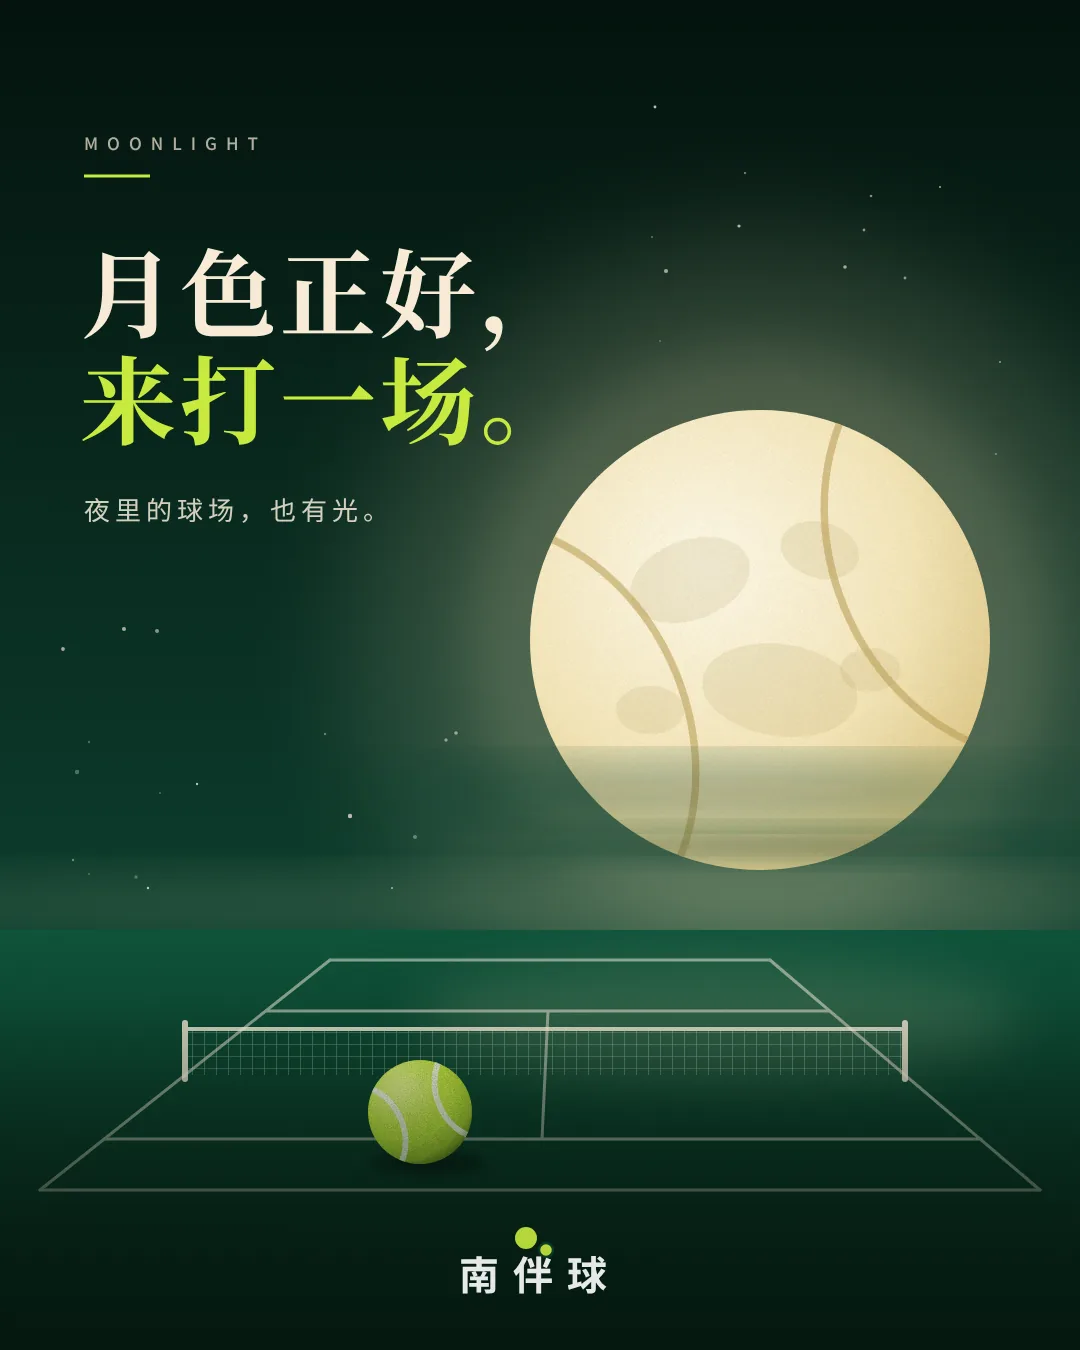
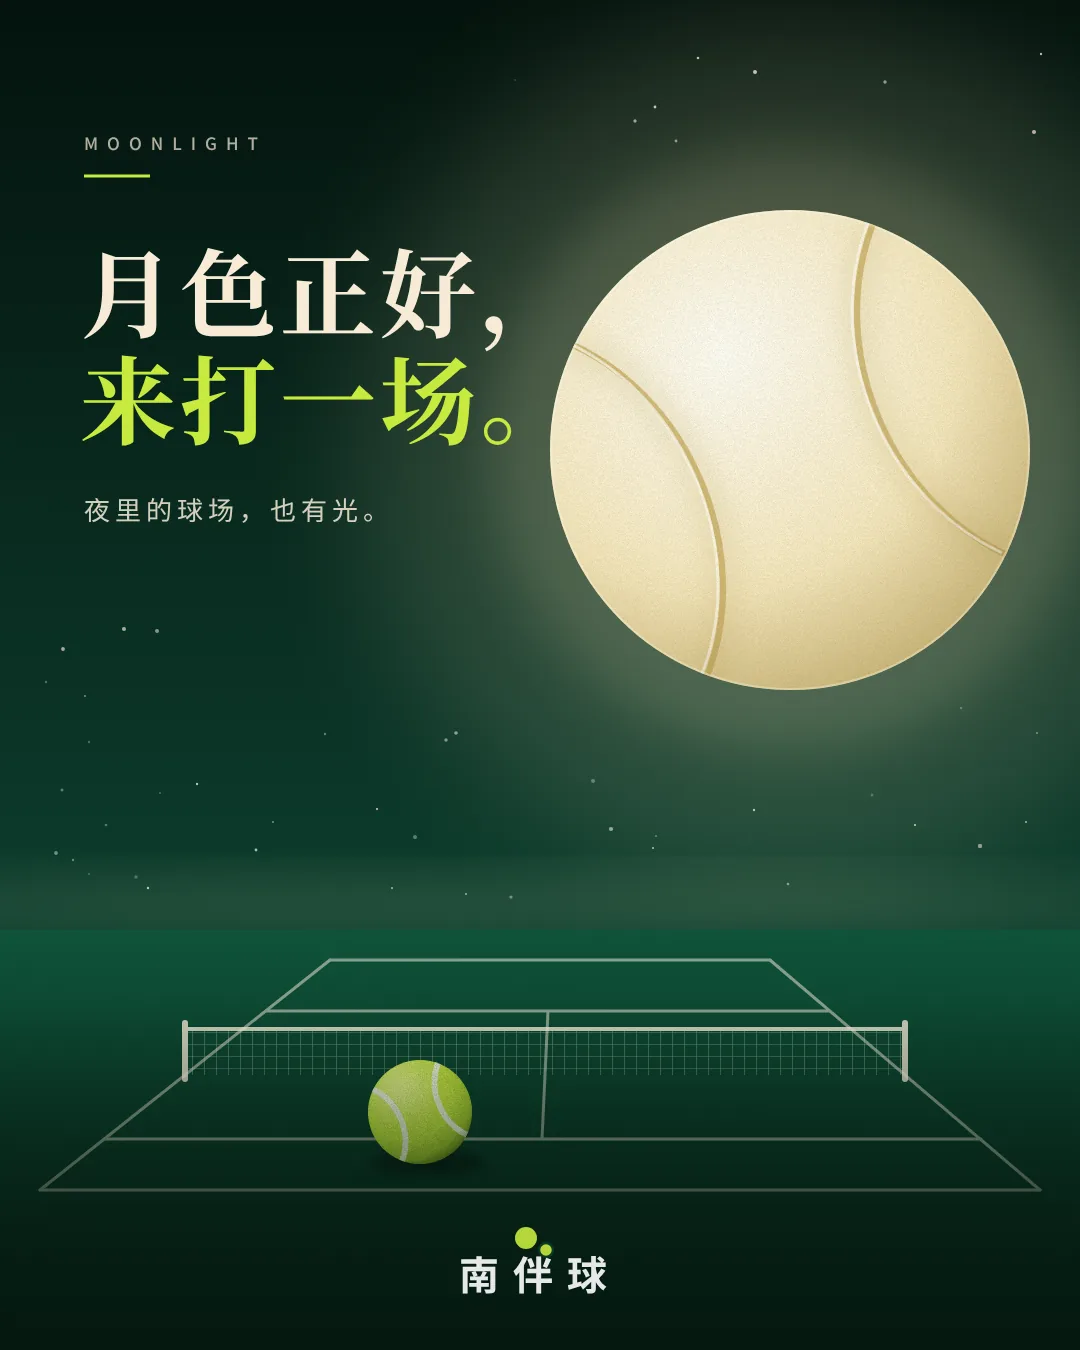
宣传物料：25 月色正好改版（去掉月面脏点，月亮升高，细节打磨）
Claude-Session: https://claude.ai/code/session_01Vg2RCd8S2GXXbETX4tfwFd

Changed region(s): [[0.3972, 0.0311, 1.0, 0.7778]]

diff --git a/marketing/posters/p25_moonlight.py b/marketing/posters/p25_moonlight.py
@@ -3,22 +3,20 @@ from lib import *
 META = dict(
     id=25, slug='moonlight', title='月色正好', lines=['月色正好，', '来打一场。'],
     style=['写实光影', '意境'], tone='深色', demo=False,
-    concept='满月上浅浅的两道弧线像球缝，月亮与网球互为倒影；月光洒在安静的球场上，一颗球等着人来',
+    concept='干净的满月，浅浅两道弧线像球缝，月亮与网球互为倒影；月光洒在安静的球场上，一颗球等着人来',
     use='夜场 / 晚间约球的氛围图；品牌情绪：安静、期待',
 )
 
 
 def svg():
     random.seed(25)
-    mx, my, mr = 760, 640, 230
+    mx, my, mr = 790, 450, 240
     stars = ''
-    for _ in range(70):
+    for _ in range(140):
         x, y = random.uniform(30, 1050), random.uniform(40, 900)
-        if (x - mx) ** 2 + (y - my) ** 2 < (mr + 60) ** 2 or (x < 640 and 90 < y < 560):
+        if (x - mx) ** 2 + (y - my) ** 2 < (mr + 60) ** 2 or (x < 600 and 90 < y < 560):
             continue
         stars += f'<circle cx="{x:.0f}" cy="{y:.0f}" r="{random.uniform(.8, 2.2):.1f}" fill="#F7EBD6" opacity="{random.uniform(.25, .8):.2f}"/>'
-    maria = ''.join(f'<ellipse cx="{mx+dx}" cy="{my+dy}" rx="{rx}" ry="{ry}" transform="rotate({r} {mx+dx} {my+dy})" fill="#B49A55" opacity=".16"/>'
-                    for dx, dy, rx, ry, r in [(-70, -60, 62, 40, -20), (60, -90, 40, 28, 15), (20, 50, 78, 46, 8), (-110, 70, 34, 24, 0), (110, 30, 30, 22, 0)])
     # 球场（透视）
     near, far = 1190, 960
     P = lambda t: persp(t, 40, 1040, near, far, 330, 770)
@@ -38,29 +36,31 @@ def svg():
     body = f'''
 <defs>
  <linearGradient id="sky25" x1="0" y1="0" x2="0" y2="1"><stop offset="0" stop-color="#03120C"/><stop offset=".55" stop-color="#0A3326"/><stop offset="1" stop-color="#0E5139"/></linearGradient>
- <radialGradient id="moon25" cx="38%" cy="34%" r="75%"><stop offset="0" stop-color="#FFFBEA"/><stop offset=".6" stop-color="#F6E7B8"/><stop offset="1" stop-color="#DCC57F"/></radialGradient>
+ <radialGradient id="moon25" cx="36%" cy="30%" r="80%"><stop offset="0" stop-color="#FFFEF4"/><stop offset=".55" stop-color="#F8EBC2"/><stop offset="1" stop-color="#E2CB86"/></radialGradient>
+ <radialGradient id="shade25" cx="34%" cy="28%" r="95%"><stop offset=".55" stop-color="#6B5A22" stop-opacity="0"/><stop offset="1" stop-color="#4E4016" stop-opacity=".32"/></radialGradient>
  <linearGradient id="ground25" x1="0" y1="0" x2="0" y2="1"><stop offset="0" stop-color="#0E5139"/><stop offset="1" stop-color="#04180F"/></linearGradient>
  <linearGradient id="fade25" x1="0" y1="0" x2="0" y2="1"><stop offset="0" stop-color="#04180F" stop-opacity="0"/><stop offset="1" stop-color="#04180F" stop-opacity=".95"/></linearGradient>
  <pattern id="mesh25" width="12" height="12" patternUnits="userSpaceOnUse"><path d="M0 0 H12 M0 0 V12" stroke="#F7EBD6" stroke-width="1.2" fill="none"/></pattern>
 </defs>
 <rect width="{W}" height="{H}" fill="url(#sky25)"/>
 {stars}
-<circle cx="{mx}" cy="{my}" r="{mr+170}" fill="#F6E7B8" opacity=".16" filter="url(#bl60)"/>
-<circle cx="{mx}" cy="{my}" r="{mr+60}" fill="#F6E7B8" opacity=".14" filter="url(#bl28)"/>
+<circle cx="{mx}" cy="{my}" r="{mr+190}" fill="#F6E7B8" opacity=".14" filter="url(#bl60)"/>
+<circle cx="{mx}" cy="{my}" r="{mr+60}" fill="#F6E7B8" opacity=".16" filter="url(#bl28)"/>
 <circle cx="{mx}" cy="{my}" r="{mr}" fill="url(#moon25)"/>
 <clipPath id="mc25"><circle cx="{mx}" cy="{my}" r="{mr}"/></clipPath>
 <g clip-path="url(#mc25)">
-  {maria}
-  <g transform="translate({mx} {my}) rotate(-22) scale({mr/100})" fill="none" stroke="#B89B4E" stroke-width="3.2" stroke-linecap="round" opacity=".55">
-    <path d="M-67 -74 C-30 -34 -30 34 -67 74"/><path d="M67 -74 C30 -34 30 34 67 74"/>
+  <g transform="translate({mx} {my}) rotate(-22) scale({mr/100})" fill="none" stroke-linecap="round">
+    <g stroke="#B79A4A" stroke-width="4.2" opacity=".45" filter="url(#bl6)"><path d="M-67 -74 C-30 -34 -30 34 -67 74"/><path d="M67 -74 C30 -34 30 34 67 74"/></g>
+    <g stroke="#C9AE62" stroke-width="2.6" opacity=".8"><path d="M-67 -74 C-30 -34 -30 34 -67 74"/><path d="M67 -74 C30 -34 30 34 67 74"/></g>
+    <g stroke="#FFFDF0" stroke-width="1.2" opacity=".7" transform="translate(-1.6 -1.6)"><path d="M-67 -74 C-30 -34 -30 34 -67 74"/><path d="M67 -74 C30 -34 30 34 67 74"/></g>
   </g>
-  <circle cx="{mx}" cy="{my}" r="{mr}" fill="#000" filter="url(#fuzz)" opacity=".1"/>
+  <circle cx="{mx}" cy="{my}" r="{mr}" fill="#7A6A33" filter="url(#fuzz)" opacity=".16" style="mix-blend-mode:multiply"/>
+  <circle cx="{mx}" cy="{my}" r="{mr}" fill="url(#shade25)"/>
 </g>
-<ellipse cx="{mx-30}" cy="{my+150}" rx="360" ry="20" fill="#0C3A2B" opacity=".55" filter="url(#bl28)"/>
-<ellipse cx="{mx+60}" cy="{my+205}" rx="300" ry="12" fill="#0C3A2B" opacity=".6" filter="url(#bl14)"/>
-<ellipse cx="520" cy="905" rx="700" ry="22" fill="#F6E7B8" opacity=".18" filter="url(#bl28)"/>
+<circle cx="{mx}" cy="{my}" r="{mr-1}" fill="none" stroke="#FFFBE6" stroke-width="2" opacity=".35"/>
+<ellipse cx="{mx-60}" cy="1010" rx="320" ry="26" fill="#F6E7B8" opacity=".2" filter="url(#bl28)"/>
+<ellipse cx="520" cy="905" rx="700" ry="22" fill="#F6E7B8" opacity=".16" filter="url(#bl28)"/>
 <path d="M0 930 H1080 V1350 H0 Z" fill="url(#ground25)"/>
-<ellipse cx="{mx-40}" cy="1020" rx="300" ry="60" fill="#F6E7B8" opacity=".14" filter="url(#bl28)"/>
 <g stroke="#F7EBD6" stroke-width="3" fill="none" opacity=".5" stroke-linecap="round">{lines}</g>
 {net}
 <ellipse cx="428" cy="1163" rx="58" ry="11" fill="#000" opacity=".5" filter="url(#bl6)"/>
